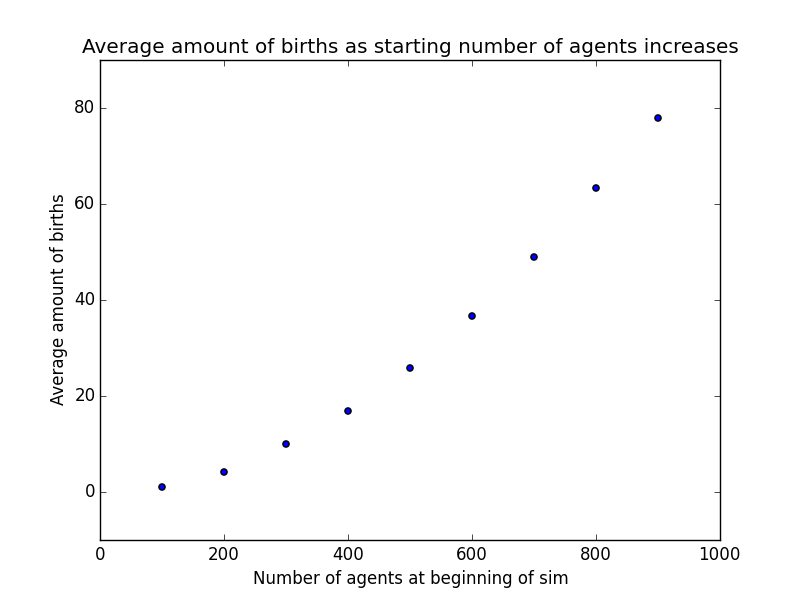
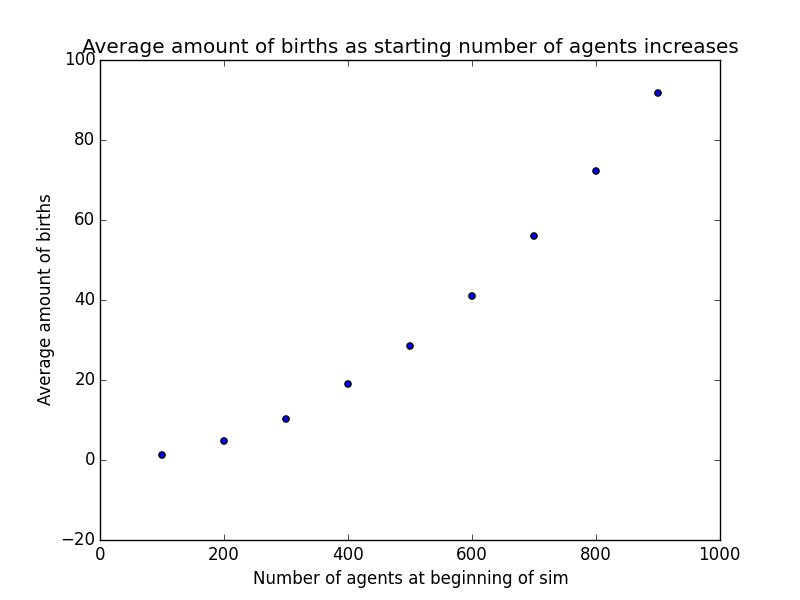
added event sorting to sim. This resulted in increased sim length

diff --git a/Sim/sim.py b/Sim/sim.py
@@ -155,6 +155,7 @@ def runSim(numAgents):
                                             birth = Event("Birth", currTime + gestation, i)
                                             birth.parents = [e.getAgentID(), i]
                                             events.append(birth)
+                                        events.sort(key=lambda x: x.time, reverse = False)
 
                 #check for destination
                 if agents[e.getAgentID()].x == agents[e.getAgentID()].destX and agents[e.getAgentID()].y == agents[e.getAgentID()].destY:
@@ -271,15 +272,21 @@ def runSim(numAgents):
             #Set event for next step taken
             nextStep = Event("TakeStep", currTime + ag.movement, ag.agentId)
             events.append(nextStep)
+            events.sort(key=lambda x: x.time, reverse = False)
         else:
             print(e.getType())
+        len1 = len(events)
         events.remove(e)
+        len2 = len(events)
+        #print(len(events))
+
+        #print(currTime)
     total = 0
     for agent in agents:
         total += agent.deathTime
     total = total / len(agents)
 
-    return total, len(agents), len(agents) - numAgents
+    return total, len(agents), len(agents) - numAgents, currTime
 
 
 
@@ -290,20 +297,24 @@ print(answer)
 lifespans = []
 agents = []
 births = []
+intervals = []
 for i in range(100, 1000, 100):
     numAgents = i
     lifeTotal = 0
     agentTotal = 0
     birthTotal = 0
+    intervalTotal = 0
     print(i)
     for j in range(100):
         answer = runSim(numAgents)
         lifeTotal += answer[0]
         agentTotal += answer[1]
         birthTotal += answer[2]
+        intervalTotal += answer[3]
     lifespans.append(lifeTotal / 100)
     agents.append(agentTotal / 100)
     births.append(birthTotal / 100)
+    intervals.append(intervalTotal / 100)
 
 print(lifespans)
 print(agents)
@@ -320,6 +331,7 @@ def plotValues(values, label, title, saveAs):
 
 plotValues(lifespans, "Average Lifespan", "Average lifespan as starting number of agents increases", "lifeSpan.png")
 plotValues(births, "Average amount of births", "Average amount of births as starting number of agents increases", "births.png")
+plotValues(intervals, "Average length of sim", "Average length of sim as starting number of agents increases", "length.png")
 
 # Current Agent Variable Vals
 # puberty = uniform(12, 15)

diff --git a/Sim/food.py b/Sim/food.py
@@ -5,10 +5,10 @@ class Food:
     def __init__(self, max_capacity):
         self.max_cap = max_capacity
         self.lastAccess = 0
-        self.curr_cap = self.max_cap
+        self.curr_cap = self.max_cap + 3
 
     def updateAmount(self, curr_time): #call before getAmount
-        self.curr_cap += (curr_time-self.lastAccess)
+        self.curr_cap += (curr_time-self.lastAccess) + 3
         if self.curr_cap>self.max_cap:
             self.curr_cap = self.max_cap
         #self.lastAccess = curr_time    Commented out because it will cause food to decrease with udated time
